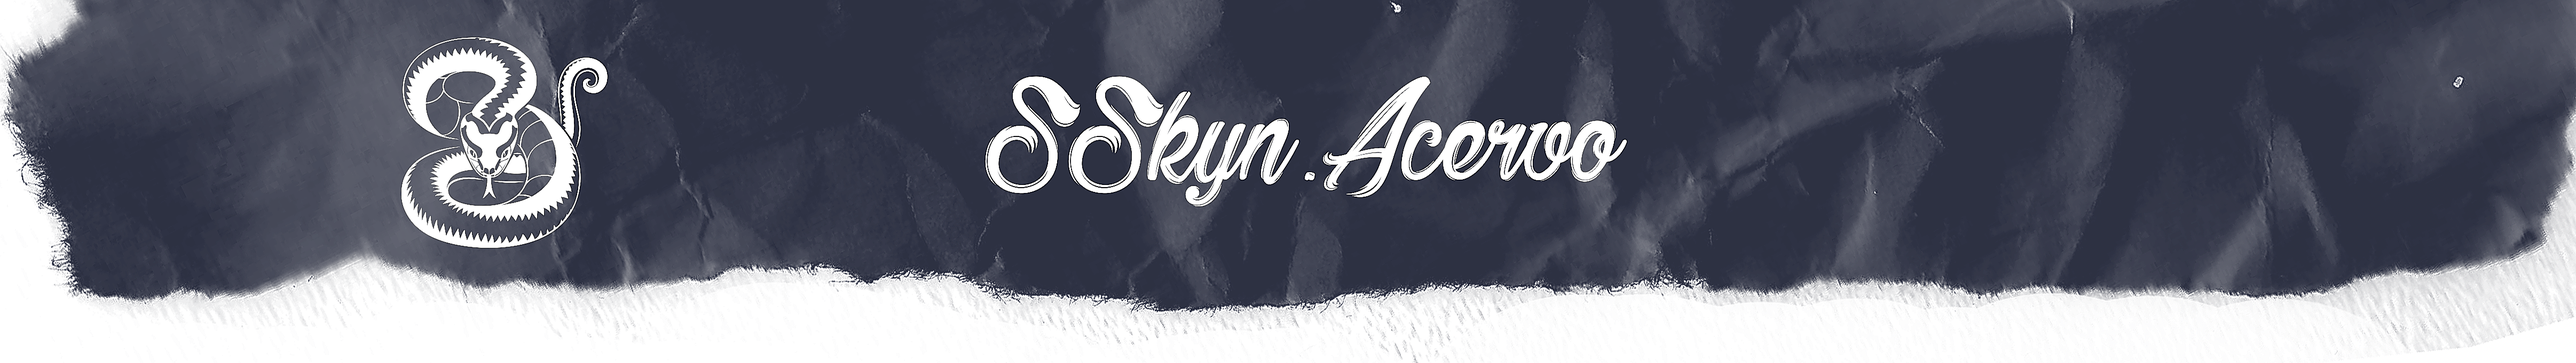
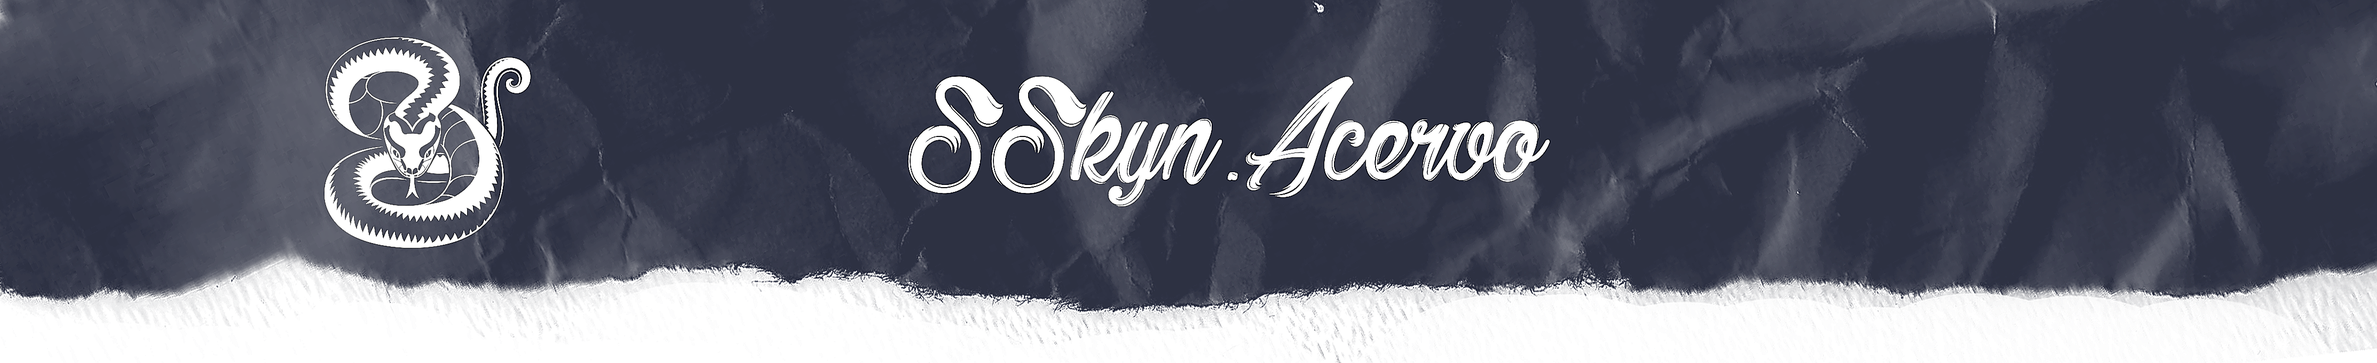
Funcionalidade 100% - Últimos retoques.

diff --git a/src/index.html b/src/index.html
@@ -1,44 +1,57 @@
 <!DOCTYPE html>
 <html>
-  <head>
-    <meta charset="utf-8" />
-    <title> SSKYN ACERVO </title>
-    <link rel="stylesheet" href="style.css" />
-    <script src="index.js" type="module"></script>
-  </head>
-  <!--COMENTÁRIO HTML-->
-  <body>
-<header>
-  <img src='sshd.png' class='PaperHeader' width=100%> <br><br><br><br><br>
-</header>
+
+<head>
+  <meta charset="utf-8" />
+  <title> SSKYN ACERVO </title>
+  <link rel="stylesheet" href="style.css" />
+  <script src="index.js" type="module"></script>
+</head>
+<!--COMENTÁRIO HTML-->
+
+<body>
+  <header>
+    <img src="sshd.png" class="PaperHeader" width="100%"> 
+  </header>
   <!--CABEÇALHO-->
+  <main>
 
-    <main>
-      <div id='section' class='infosContainer'> 
-        <!---->
-           <h2> ☯ Seja bem-vindo ao validador de compras! ☯</h2> <br>
-           <h3> É uma grande honra te receber aqui na Sinergia Skyn! </h3> 
-           <br>
-           <h3> Para prosseguirmos com o andamento do pedido nº XXXXX, é de extrema importância que <strong> todos os campos sejam preenchidos corretamente </strong> com as informações de pagamento. </h3> <br>
-           <h3> No primeiro e no último campo, digite apenas os números solicitados, sem nenhum caractér especial ou pontuação. </h3> <br>
-           <h3> Agradecemos imensamente a atenção e preferência. Volte sempre que quiser se reinventar em Sua Pele! </h3>
-          </div>
+    <!---->
+    <div class="infosContainer">
 
-      <div id='section' class="cardContainer"> 
-<!---->
-    <li> <label  class='fontCampos'> NÚMERO DO CARTÃO </label> <br>
-          <input type='text' name='Numero' id='creditCardNumber' class='cardCampos' min='13' maxlength='16' placeholder='XXXX XXXX XXXX XXXX'> <br><br> </li>
-    <li> <label for='creditCardName' class='fontCampos'> NOME DO TITULAR </label> <br>
-          <input type='text' id="creditCardName" class='cardCampos' placeholder="xxxxxxxx x x x xxxxxx" :required> <br><br> </li>
-    <li> <label for='ExpirationDate' class='fontCampos'> DATA DE VALIDADE </label> <br>
-          <input type='month' id="ExpirationDate" class='cardCampos' min='2016-01' max='2030-01' placeholder='xx/xxxx'><br><br>  </li>
-    <li> <label for='CardVerificationValue' class='fontCampos'> CVV </label> <br>
-          <input type='text' id='CardVerificationValue' class='cardCampos' maxlength='3' placeholder='XXX'> </li>
-         
-    <input type='button' id='ValidButton' value='Enviar' onsubmit='Catching()'> 
-    <p id='OuttCome'> </p>
-    <p id='Empty'> </p>
+      <h2> ☯ Seja bem-vindo à validação de compras! ☯</h2> <br>
+      <h3> É uma grande honra te receber aqui na Sinergia Skyn! </h3>
+      <br>
+      <h3> Para prosseguirmos com o andamento do pedido nº XXXXX, é de extrema importância que <strong> todos os campos
+          sejam preenchidos corretamente </strong> com as informações de pagamento. </h3> <br>
+      <h3> No primeiro e no último campo, digite apenas os números solicitados, sem nenhum caractér especial ou
+        pontuação. </h3> <br>
+      <h3> Agradecemos imensamente a atenção e preferência. Volte sempre que quiser se reinventar em Sua Pele! </h3>
     </div>
-</main>
-  </body>
+
+    <!---->
+    <div class="cardContainer">
+      <li> <label class="fontCampos"> NÚMERO DO CARTÃO </label> <br>
+        <input type="number" name="Numero" id="creditCardNumber" class="cardCampos" placeholder="**** **** **** ****">
+        <br><br>
+      </li>
+      <li> <label for="creditCardName" class="fontCampos"> NOME DO TITULAR </label> <br>
+        <input type="text" id="creditCardName" class="cardCampos" placeholder="xxxxxxx x x xxxxxxx">
+        <br><br>
+      </li>
+      <li> <label for="ExpirationDate" class="fontCampos"> DATA DE VALIDADE </label> <br>
+        <input type="month" id="ExpirationDate" class="cardCampos" min="2016-01" max="2030-01"
+          placeholder="xx/xxxx"><br><br>
+      </li>
+      <li> <label for="CardVerificationValue" class="fontCampos"> CVV </label> <br>
+        <input type="text" id="CardVerificationValue" class="cardCampos" maxlength="3" placeholder="***">
+      </li>
+
+      <button id="ValidButton"> Validar </button>
+      <p id="OuttCome"> <strong> </strong> </p>
+
+    </div>
+  </main>
+</body>
+
 </html>

diff --git a/src/style.css b/src/style.css
@@ -6,13 +6,13 @@
   }
 body{
     background-image: url('ssbg.png');
-    width: 100%;
+    width: 96%;
     height: 100%;
     position: absolute;
     color: black;
     text-align: center;
     padding: 1em;
-
+    overflow: hidden;
 }
 form {
     display: inline;
@@ -20,23 +20,18 @@ form {
 
 /* Cabeçalho*/
 header {
-  margin-top: -2%;
-  background-size: 100%;
-  overflow: hidden;
+  margin: -2%;
+  background-size: 80%;
 }
 
 /* Imagem do cabeçalho*/
 .PaperHeader {
-  position: absolute;
-  margin-left: -50%;
-  margin-right: 0%;
-  width: auto;
-  max-height: 30%;
+  width: 100%;
   overflow: hidden;
 }
 
-div{
-  margin-top: 8%;
+div {
+  margin-top: 0%;
 }
 
 /* Container informações! */
@@ -44,7 +39,8 @@ div{
   background-color: white;
   width: 35%;
   height: 50%;
-  margin-left: 10%;
+  margin-top: 3%;
+  margin-left: 8%;
   margin-right: 55%;
   border-radius: 15px;
   text-align: left;
@@ -57,24 +53,26 @@ div{
 
 /* Container dos dados do Cartão */
 .cardContainer {
+    margin-top: 2%;
     background-color: #e9e5e0;
     width: 35%;
     height: 50%;
-    margin-top: -27%;
-    margin-left: 56%;
-    margin-right: 5%;
+    margin-top: -31%;
+    margin-left: 55%;
+    margin-right: 8%;
     border-radius: 15px;
     text-align: center;
     padding: 25px;   
     border: solid #282c3e;
     border-top-width: 25px;
+    border-bottom-width: 25px;
     box-shadow: 2px 2px 2px rgba(0,0,0,0.2);
     list-style: none;
 }
 
 /* Labels dos dados do Cartão */
 .fontCampos {
-    color: rgb(0, 0, 0);
+    color: #282c3e;
     font-style: oblique;
     font-size: 16px;
     font-weight: bold;
@@ -91,7 +89,10 @@ div{
   width: 180px;
   display: inline;
   text-align: center;
-  
+  background-color: white;
+  border-radius: 5px;
+  border: #282c3e;
+  border: 1px;
 }
 
 /*Botão "Enviar"*/
@@ -122,7 +123,10 @@ div{
     cursor: pointer;
 }
 
-#OuttCome { 
-  display: block;
-
+#OuttCome {
+  border-radius: 50px;
+  margin-top: 5%;
+  height: auto;
+  background-color: #282c3e;
+  color: whitesmoke;
 }

diff --git a/src/index.js b/src/index.js
@@ -1,26 +1,26 @@
-let VBttn = document.getElementById('ValidButton'); //** Var. para o botão receber funcionalidade
+import validator from './validator.js';
 
+let VBttn = document.getElementById('ValidButton');
 
 function Catching() {
 
-    let CCardNumber = document.getElementById('creditCardNumber'); //* Guarda número do cartão 
-    let CCNumber = CCardNumber.value; //* Armazenar o valor específico inputado e adicionar em outra váriavel !!!esse valor em específico!!!
-    let validateCC = validator.isValid(CCNumber);
+    let inputCCardNumber = document.getElementById('creditCardNumber'); 
+    let CCNumber = inputCCardNumber.value;
 
-    if (validateCC) {
-        outCome.textContent = 'CARTÃO VÁLIDO!' //+ mask
+    if (CCNumber == null || CCNumber == "" || CCNumber == "e") {
+        alert('Por favor, preencha os campos corretamente!')
     } else {
-        outCome.textContent = 'CARTÃO INVÁLIDO!' //+ mask
+        let maskValue = validator.maskify(CCNumber);
+        let validateCC = validator.isValid(CCNumber);
+        if (validateCC) {
+            outCome.textContent = 'CARTÃO FINAL ' + maskValue + ' É VÁLIDO!' 
+        } else {
+            outCome.textContent = 'CARTÃO FINAL ' + maskValue + ' É INVÁLIDO! ' + ' TENTE NOVAMENTE.' 
+        }
+        document.getElementById('creditCardNumber').value = ''
     }
 }
 
 VBttn.addEventListener("click", Catching)
 let outCome = document.getElementById('OuttCome');
-
-//* function para mostrar resultado escondido depois
-// getelementbyId style.display
-// let displayResultado
-
-import validator from './validator.js';
-console.log(validator);
 

diff --git a/src/validator.js b/src/validator.js
@@ -8,19 +8,19 @@ const validator = {
     let soma = 0;
     for (let i = 0; i < CCNumber.length; i++) {
 
-         if (i % 2 != 0) {
-            CCNumber[i] = (Number(CCNumber[i])) * 2;
-            
-            if (CCNumber[i] > 9) {
-              CCNumber[i] = CCNumber[i] - 9;
+      if (i % 2 != 0) {
+        CCNumber[i] = (Number(CCNumber[i])) * 2;
 
-                soma = soma + Number(CCNumber[i]);
-              }
-              else
-               soma = soma + (CCNumber[i]);
-            }
-            else
-            soma = soma + Number(CCNumber[i]);
+        if (CCNumber[i] > 9) {
+          CCNumber[i] = CCNumber[i] - 9;
+
+          soma = soma + Number(CCNumber[i]);
+        }
+        else
+          soma = soma + (CCNumber[i]);
+      }
+      else
+        soma = soma + Number(CCNumber[i]);
     }
 
     if (soma % 10 == 0) {
@@ -29,6 +29,19 @@ const validator = {
     else {
       return false
     }
-   }
-  } 
-  export default validator
+  }
+,
+
+  maskify(CCNumber) {
+    let maskCCN = Array.from(CCNumber);
+    const lastFourNumbers = 4
+    
+    for (let i = 0; i < maskCCN.length - lastFourNumbers; i++) {
+    maskCCN[i] = "*"
+    }
+    let joinCCN = maskCCN.join('');
+    return joinCCN
+  }
+}
+
+export default validator
